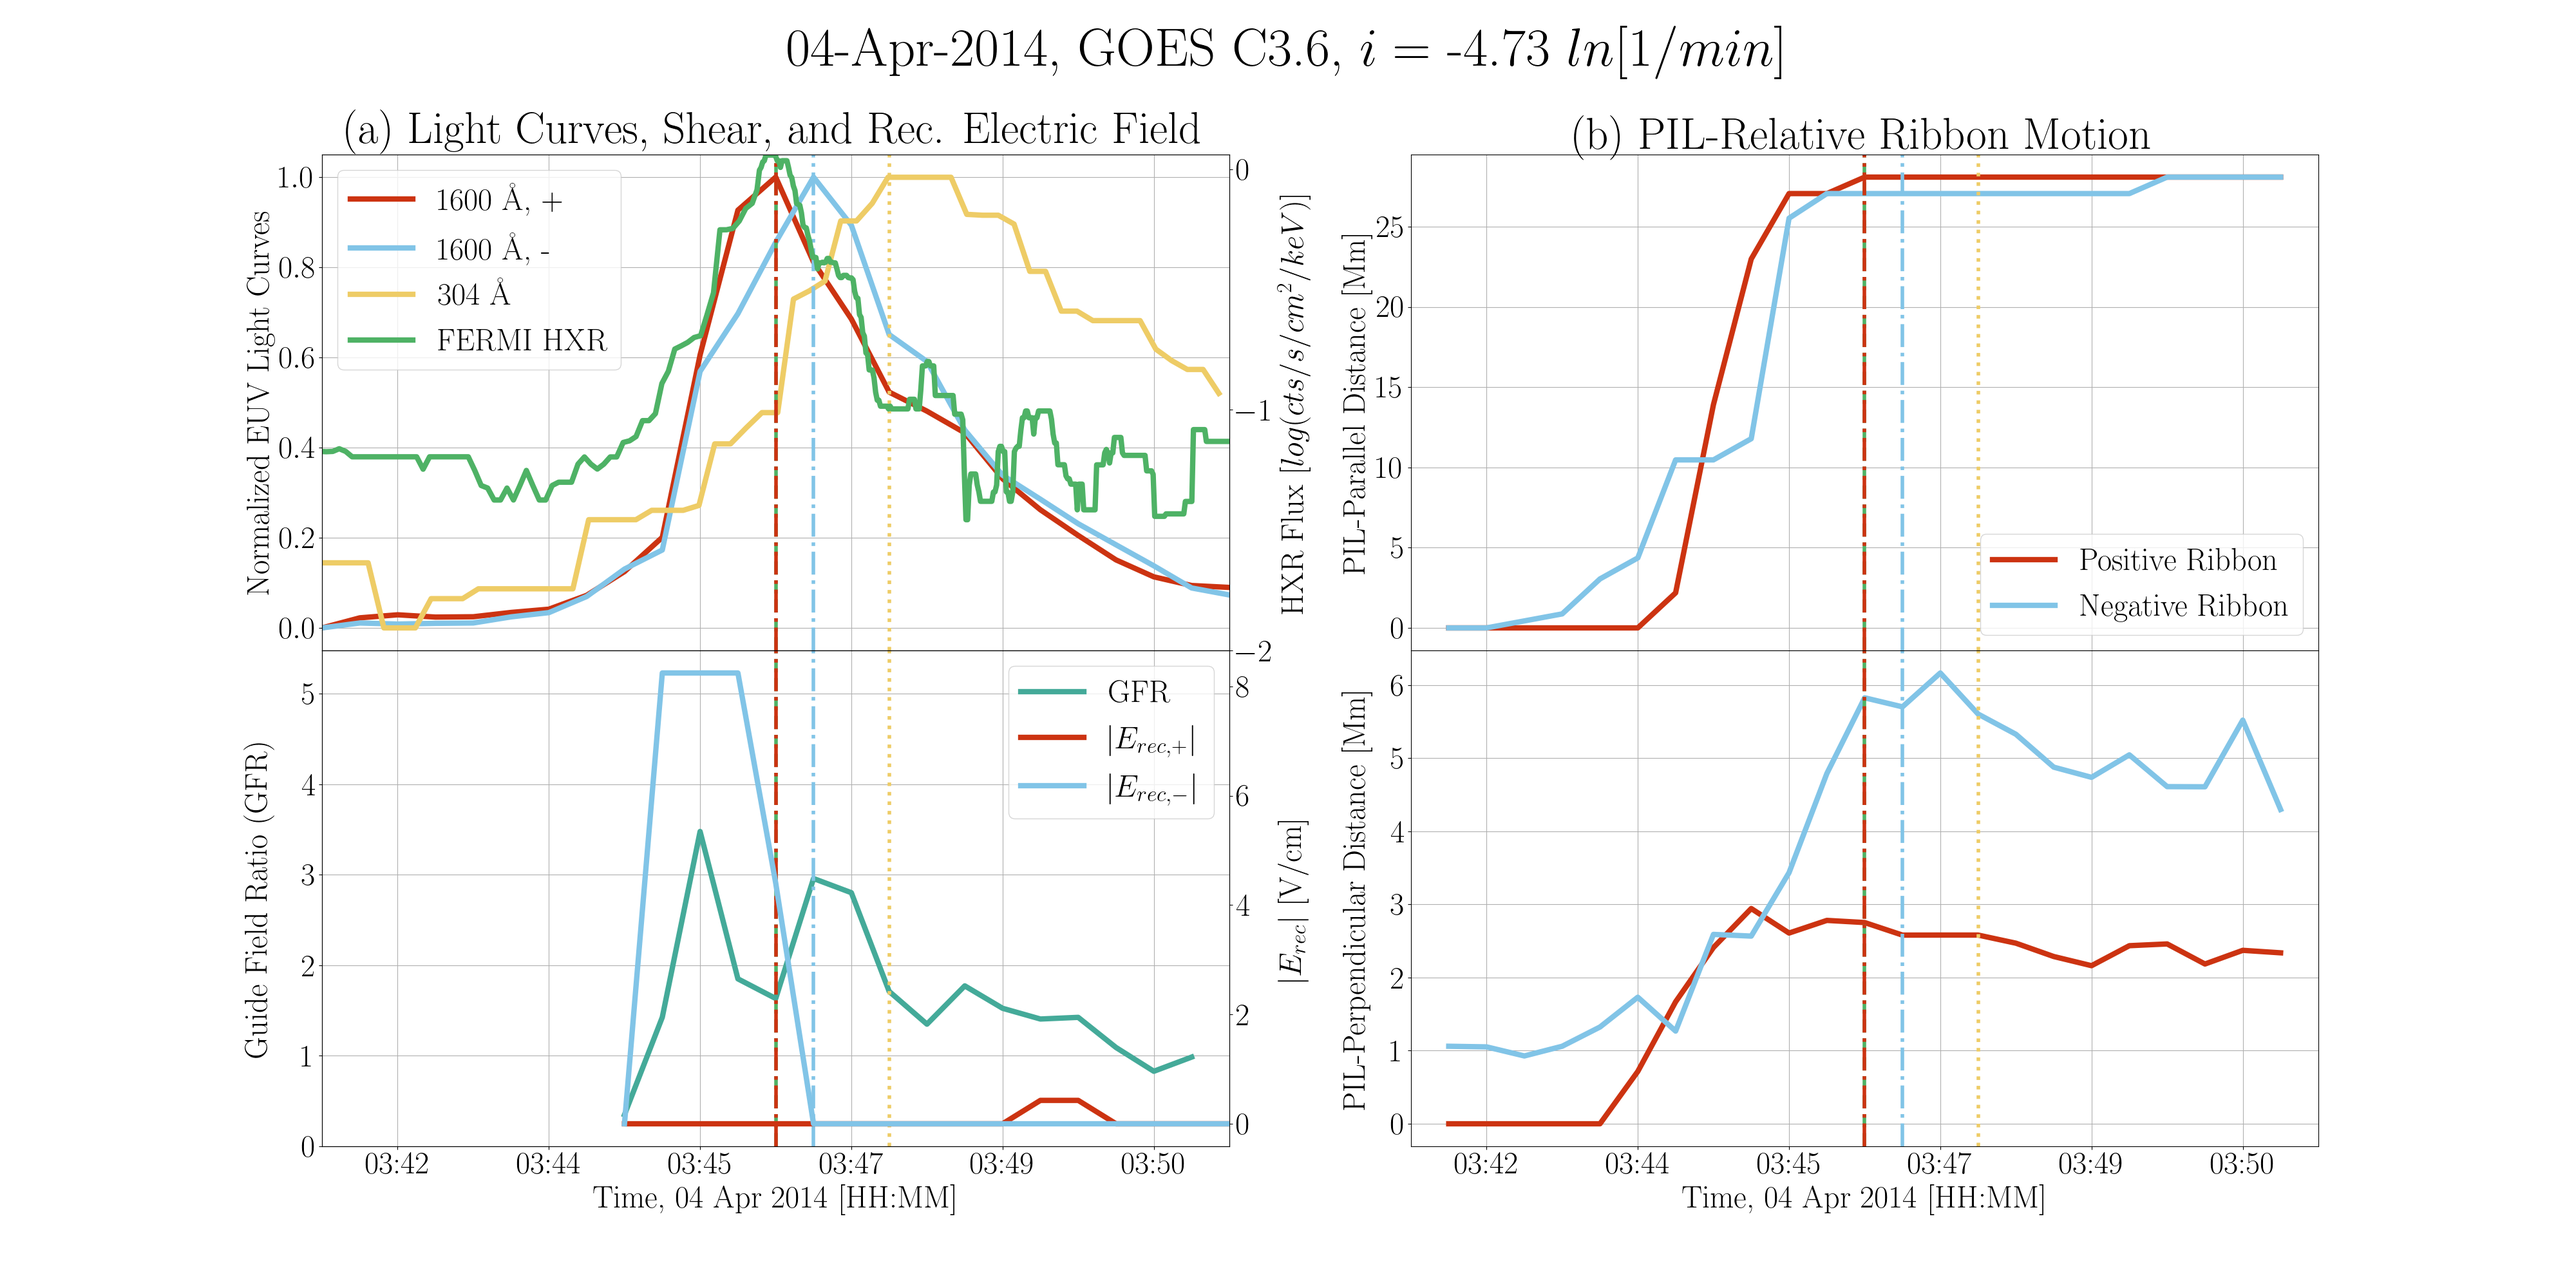
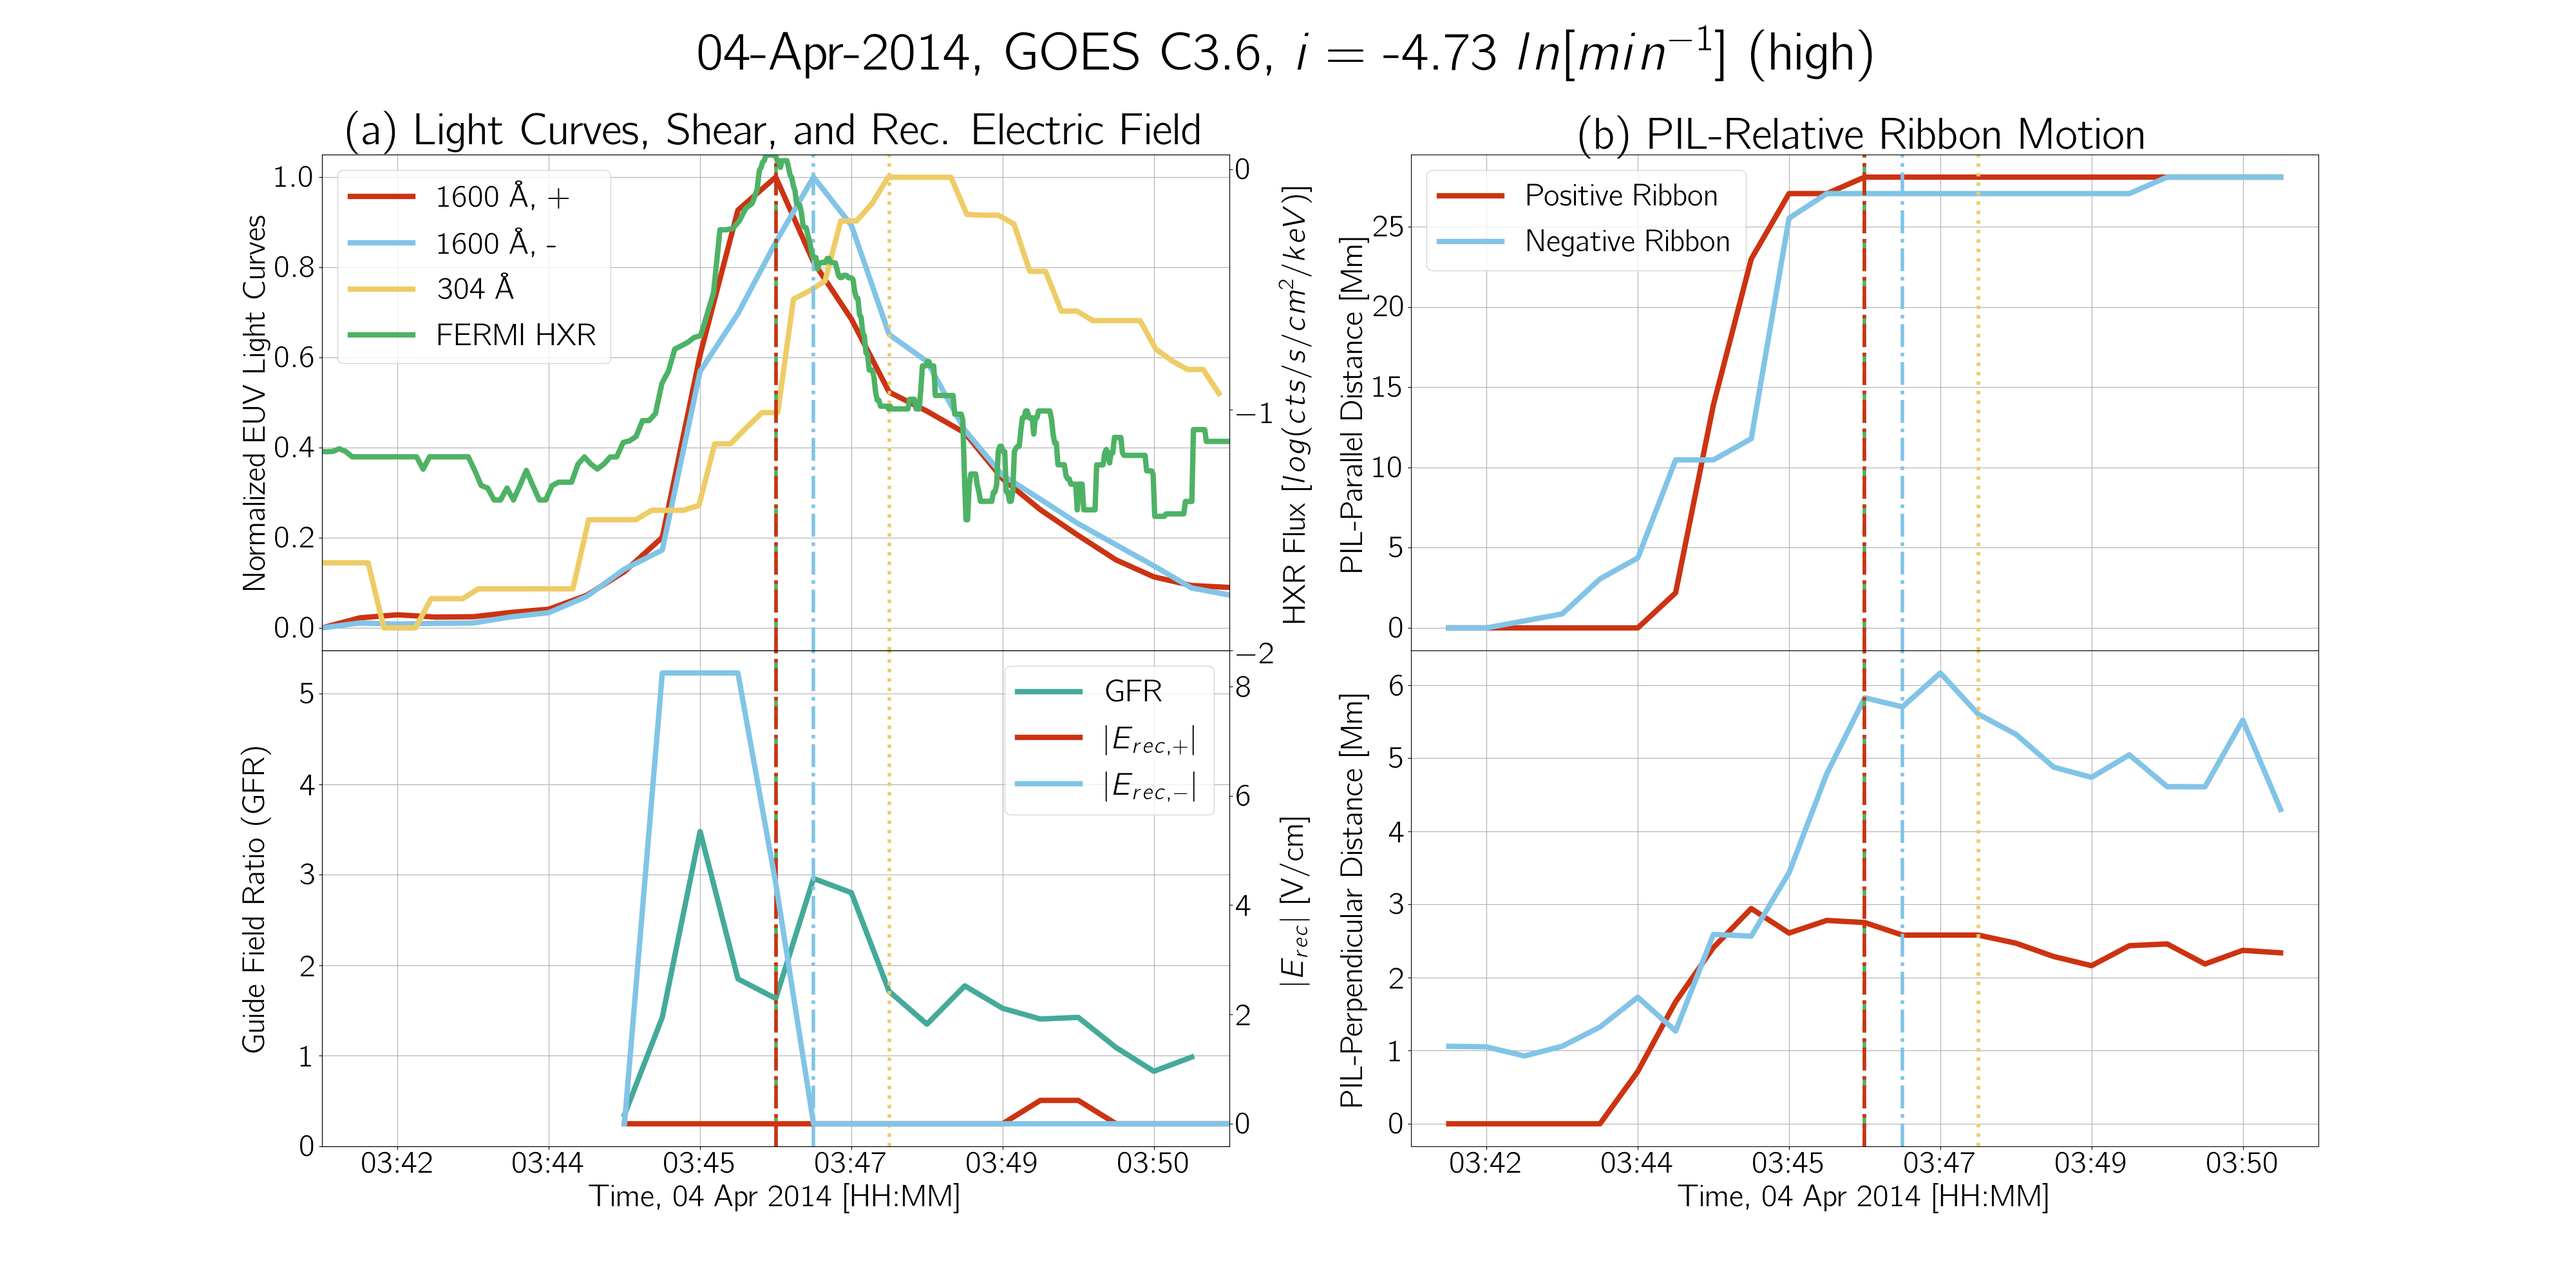
final change to fourpanel figure

diff --git a/fl_funcs.py b/fl_funcs.py
@@ -4195,7 +4195,7 @@ def plt_fourpanel(times, right_gfr, left_gfr, flnum, dt1600, time304,
                   s304, e304, pos1600, neg1600, dn1600, indstrt_elon,
                   indstrt_sep, fermitimes, raw_hxr_sum, cspec_hxr_sum,
                   gfr_trans, E_pos, E_neg, time_E, day, mo, year, xcl, xclnum,
-                  imp, muted, vibrant, medc, low_hxr=0, high_hxr=800, period_flag=0, flag=0,
+                  imp, muted, vibrant, medc, level,low_hxr=0, high_hxr=800, period_flag=0, flag=0,
                   tick_space=0):
     """
     Four-panel plot to compare HXR/1600 Angstrom/304 Angstrom (panel 1),
@@ -4301,7 +4301,8 @@ def plt_fourpanel(times, right_gfr, left_gfr, flnum, dt1600, time304,
     """
 
     plt.rcParams['text.usetex']=True
-    plt.rcParams['font.family']='Helvetica'
+    plt.rcParams['font.family']='sans-serif'
+    plt.rcParams['font.sans-serif'] = ['Tahoma']
     
     dt1600_1 = []
     dt304_1 = []
@@ -4533,10 +4534,11 @@ def plt_fourpanel(times, right_gfr, left_gfr, flnum, dt1600, time304,
     fig.align_ylabels([ax1,ax2])
     fig.align_ylabels([ax1_0,ax2_0])
     fig.align_ylabels([ax3,ax4])
+
     
    
     fig.suptitle(day+'-'+mo+'-'+year+', GOES '+xcl+str(xclnum)+', '+
-                 r'$i =$ '+str(imp)+r' $ln[1/min]$',fontsize=60)
+                 r'$i =$ '+str(imp)+r' $ln[min^{-1}]$ ('+level+')',fontsize=60)
     
     plt.setp(ax1.get_xticklabels(), visible=False)
     plt.setp(ax3.get_xticklabels(), visible=False)

diff --git a/high1_process.py b/high1_process.py
@@ -316,6 +316,7 @@ print(quartermaxtim)
 muted = fl_funcs.color_muted()
 vibrant = fl_funcs.color_vibrant()
 medc = fl_funcs.color_medc()
+level = 'high'
 
 fl_funcs.plt_fourpanel(times, gfr, gfr, flnum, dt1600, time304,
                        filter_304, lens_pos_Mm, lens_neg_Mm, distpos_Mm,
@@ -327,7 +328,7 @@ fl_funcs.plt_fourpanel(times, gfr, gfr, flnum, dt1600, time304,
                        s304, e304, pos1600, neg1600, dn1600, indstrt_elon,
                        indstrt_sep, fermitimes, raw_hxr_sum, cspec_hxr_sum,
                        gfr_trans, E_pos, E_neg, time_E, daystr,mostrcap,yearstr,
-                       xcl,xclnum,imp, muted, vibrant, medc, low_hxr=3500, high_hxr=4500,
+                       xcl,xclnum,imp, muted, vibrant, medc, level,low_hxr=3500, high_hxr=4500,
                        period_flag=0, tick_space=4)
 
 file = 'high1shear'
